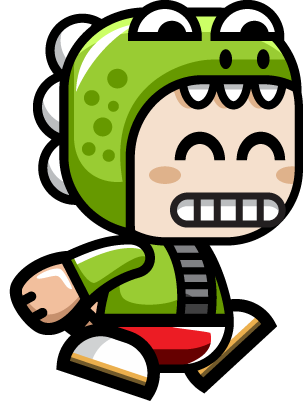
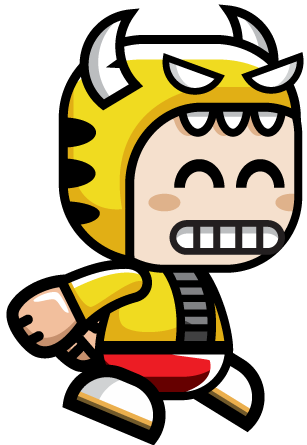
Yellow mascot character added.

diff --git a/core/src/com/mygdx/game/CoinMan.java b/core/src/com/mygdx/game/CoinMan.java
@@ -19,6 +19,7 @@ public class CoinMan extends ApplicationAdapter {
 	Texture background,background1,background2,background3,background4,background5,background10,background9,background81,background82,background71,background72,background61,background62,background51,background52,background41,background42,background31,background32;
 	Texture[] man;
 	Texture dizzy;
+	Texture[] jump;
 	int manState=0;
 	int pause=0;
 	float gravity = 0.4f;
@@ -98,11 +99,19 @@ public class CoinMan extends ApplicationAdapter {
 
 
 
-		man=new Texture[4];
+		man=new Texture[7];
 		man[0]=new Texture("frame-1.png");
 		man[1]=new Texture("frame-2.png");
 		man[2]=new Texture("frame-3.png");
 		man[3]=new Texture("frame-4.png");
+		man[4]=new Texture("frame-5.png");
+		man[5] = new Texture("jump-up.png");
+		man[6] = new Texture("jump-fall.png");
+//		man[5]=new Texture("frame-6.png");
+//		man[6]=new Texture("frame-7.png");
+//		man[7]=new Texture("frame-8.png");
+//		man[8]=new Texture("frame-9.png");
+//		man[9]=new Texture("frame-10.png");
 		manY=Gdx.graphics.getHeight()/2;
 		coin=new Texture("coin.png");
 		bomb=new Texture("bomb.png");
@@ -111,6 +120,9 @@ public class CoinMan extends ApplicationAdapter {
 		font.setColor(Color.WHITE);
 		font.getData().setScale(10);
 		dizzy=new Texture("dizzy-1.png");
+		jump = new Texture[2];
+		jump[0] = new Texture("jump-up.png");
+		jump[1] = new Texture("jump-fall.png");
 
 		a1=Gdx.graphics.getWidth();
 		a2=Gdx.graphics.getWidth();
@@ -352,17 +364,24 @@ public class CoinMan extends ApplicationAdapter {
 			}
 
 
+			//Character movement
 			if(Gdx.input.justTouched()){
 				velocity=-15;
+				int i = 1;
+				while (i != 1000000){
+					manState = 5;
+					i++;
+				}
+
 			}
-			if(pause < 4)
+			if(pause < 3)
 			{
 				pause++;
 			}
 			else
 			{
 				pause=0;
-				if(manState < 3)
+				if(manState < 4)
 				{
 					manState++;
 				}
